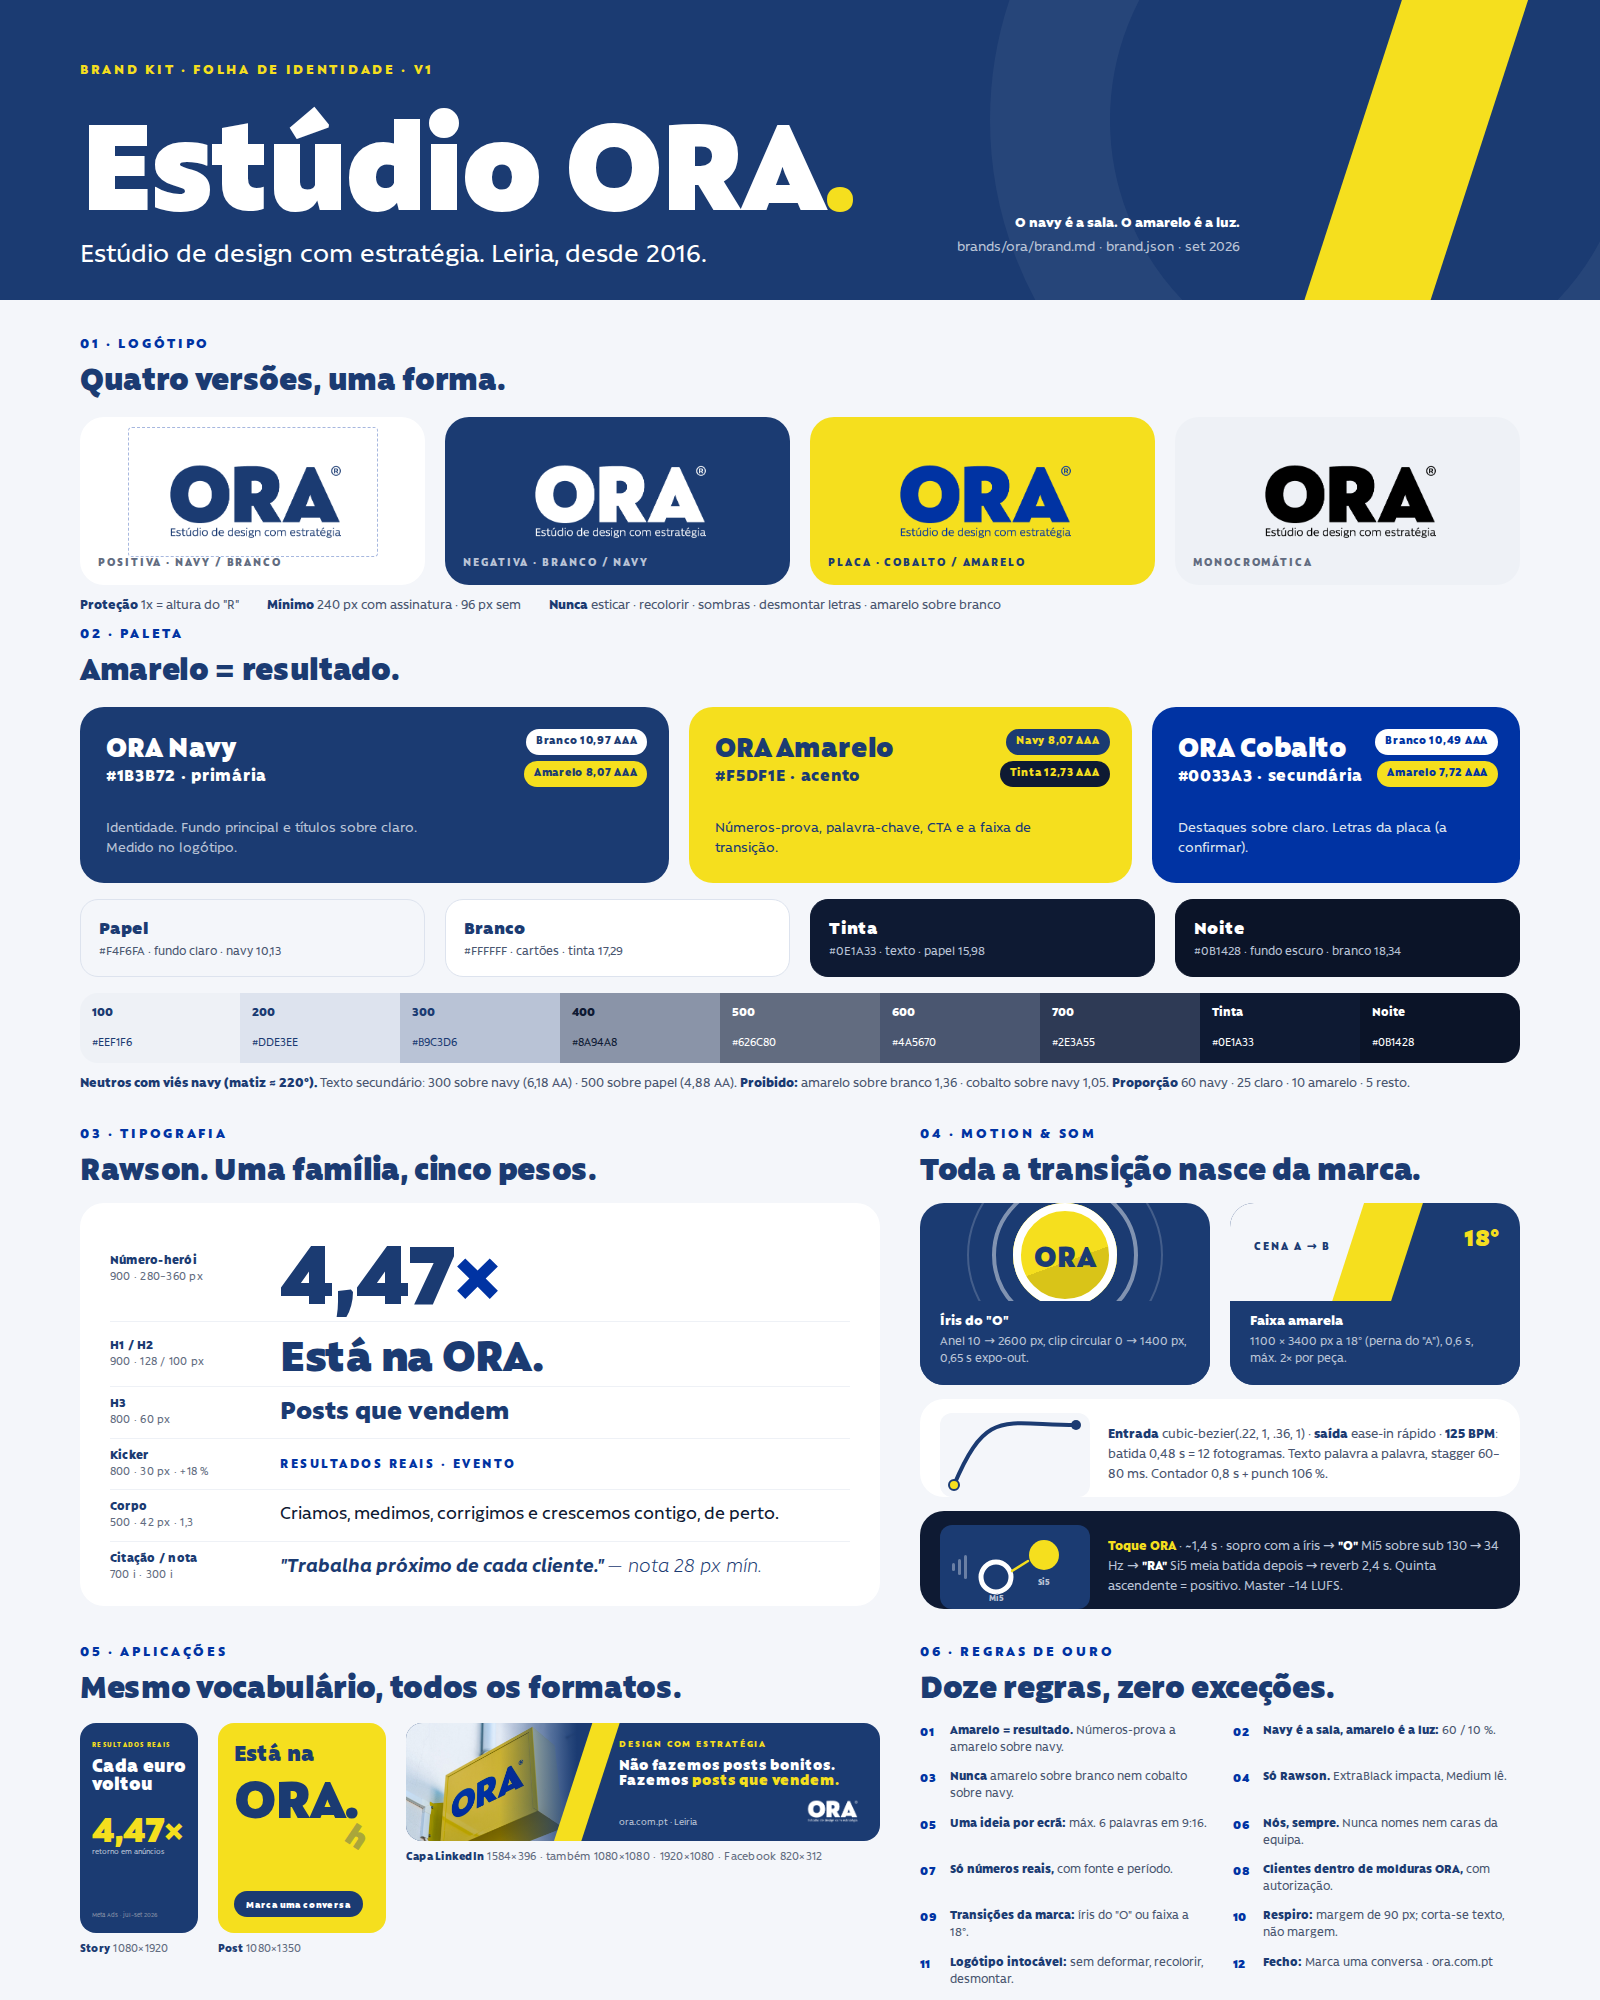
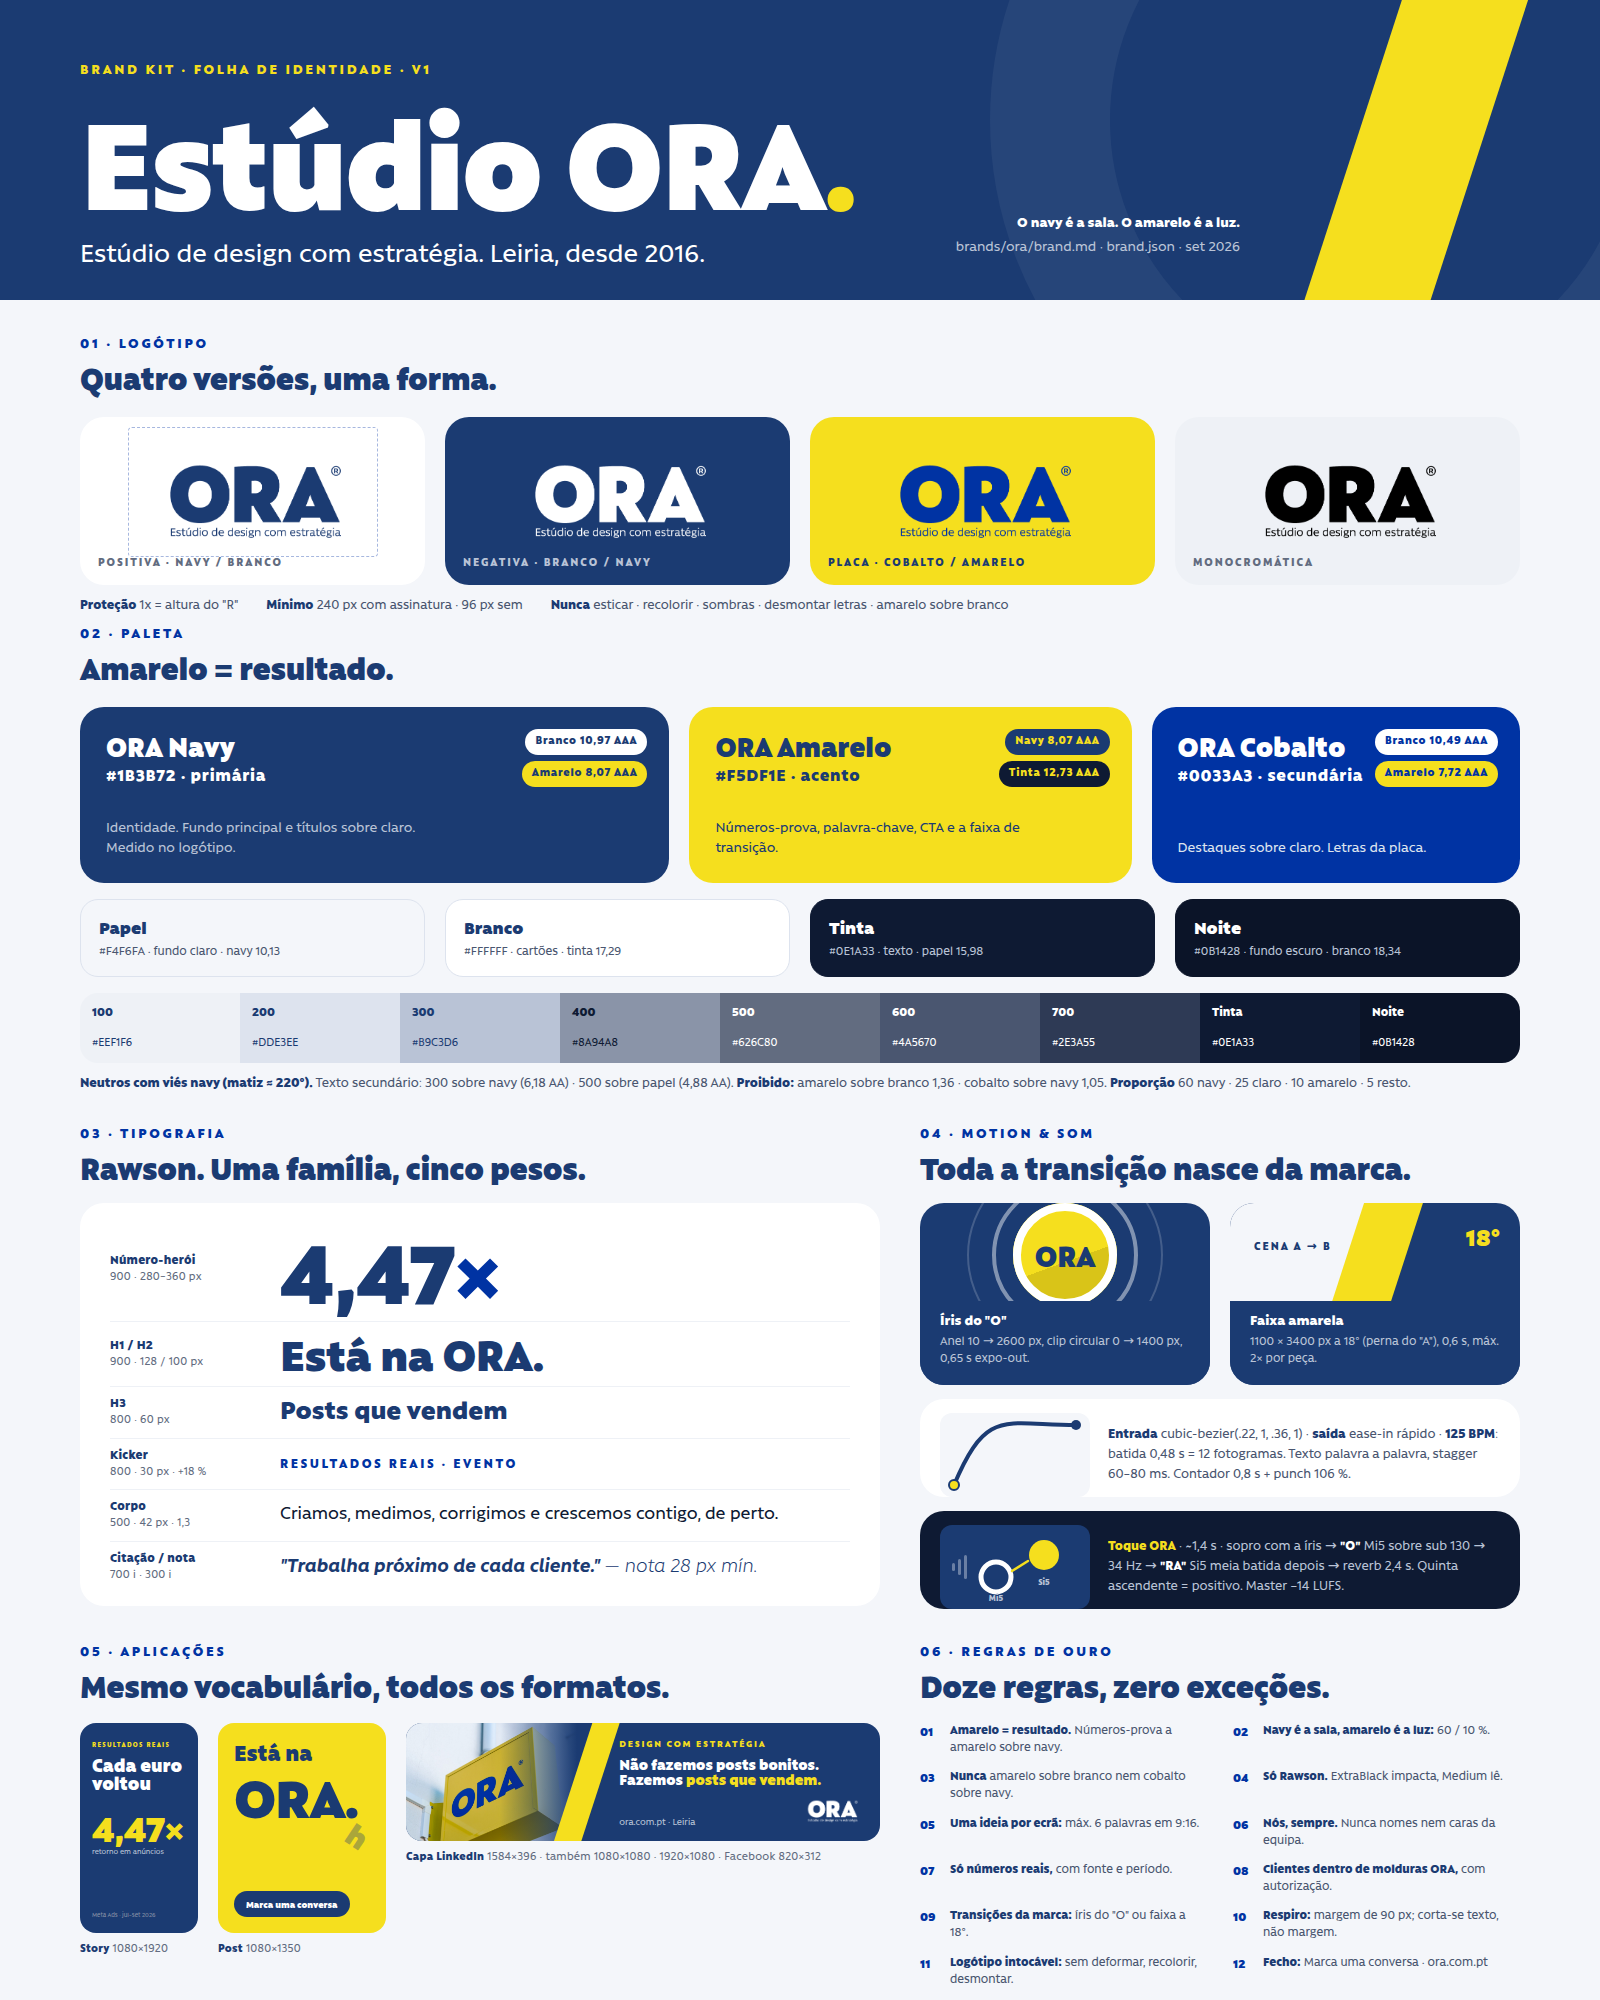
Brand kit ORA: regista aprovações do cliente (cobalto, logótipo, mínimos, Toque ORA)
Claude-Session: https://claude.ai/code/session_01KHn3Jy1H5yFDFE767gDCaD

diff --git a/brands/ora/folha-identidade.html b/brands/ora/folha-identidade.html
@@ -194,7 +194,7 @@ section{position:absolute;left:80px;right:80px}
     </div>
     <div class="sw" style="background:var(--cobalt);color:#fff">
       <div><div class="nm">ORA Cobalto</div><div class="hx">#0033A3 · secundária</div></div>
-      <div class="rl" style="color:var(--n200)">Destaques sobre claro. Letras da placa (a confirmar).</div>
+      <div class="rl" style="color:var(--n200)">Destaques sobre claro. Letras da placa.</div>
       <div class="cr"><span class="badge" style="background:#fff;color:var(--cobalt)">Branco 10,49 AAA</span><span class="badge" style="background:var(--yellow);color:var(--cobalt)">Amarelo 7,72 AAA</span></div>
     </div>
   </div>

diff --git a/brands/ora/brand.md b/brands/ora/brand.md
@@ -30,7 +30,7 @@
 |---|---|---|---|---|
 | `ora-navy` · **primária** | **#1B3B72** | 27 59 114 | Logótipo, medido em píxeis (exato) | Identidade. Fundo principal, títulos sobre claro |
 | `ora-amarelo` · **acento** | **#F5DF1E** | 245 223 30 | Aprovado pelo cliente | **Resultado**: números-prova, palavra-chave, CTA, faixa de transição |
-| `ora-cobalto` · secundária | **#0033A3** | 0 51 163 | Letras da placa (média medida #012F9E) · **a confirmar** | Kickers e destaques sobre claro, logótipo sobre amarelo, dados |
+| `ora-cobalto` · secundária | **#0033A3** | 0 51 163 | Letras da placa · **oficial (aprovado pelo cliente)** | Kickers e destaques sobre claro, logótipo sobre amarelo, dados |
 | `papel` · fundo claro | #F4F6FA | | Estúdio/site | Fundos claros, cartões, respiro |
 | `branco` | #FFFFFF | | | Texto sobre navy, cartões |
 | `tinta` · texto | #0E1A33 | | Derivada do navy | Texto corrido sobre claro e amarelo; caixas de legenda (86 %) |
@@ -122,7 +122,7 @@ Uma só família. O "ORA" do logótipo é Rawson ExtraBlack.
 | Monocromática | Preto 100 % ou branco 100 % (gravação, vinil, carimbo) |
 
 - **Área de proteção:** x = altura do "R". Espaço livre de 1x à volta, medido a partir do ® e da assinatura.
-- **Tamanho mínimo** (proposta, **a confirmar**): com assinatura, 240 px de largura (digital) ou 40 mm (impresso). Sem assinatura, 96 px ou 15 mm.
+- **Tamanho mínimo** (**aprovado pelo cliente**): com assinatura, 240 px de largura (digital) ou 40 mm (impresso). Sem assinatura, 96 px ou 15 mm.
 - **Proibido:** esticar, inclinar ou rodar · recriar com outra fonte · gradientes, sombras, contornos · amarelo sobre branco · navy sobre cobalto · pousar sobre fotos agitadas sem véu navy · remover o ® · desmontar as letras (a animação usa o "O" como íris, não parte o logótipo).
 
 ---
@@ -174,7 +174,7 @@ Uma barra #F5DF1E de 1100 × 3400 px, rodada **18°** (a inclinação da perna d
 **Música:** indie-electronic / funk moderno, otimista, a 125 BPM, com licença comercial (nunca faixas "trending" nos anúncios).
 **Voz:** PT-PT, calorosa e segura, em ritmo de conversa. Fala em nome do coletivo.
 
-**Toque ORA (sonic logo, ~1,4 s, proposta a validar):**
+**Toque ORA (sonic logo, ~1,4 s, aprovado pelo cliente):**
 1. Um sopro de ar ascendente (0,3 s) acompanha a abertura da íris.
 2. **"O":** Mi5 (659 Hz, seno com 10 % de triângulo) sobre um sub de 130 → 34 Hz.
 3. **"RA":** Si5 (988 Hz), meia batida depois (0,24 s).
@@ -221,8 +221,8 @@ A quinta ascendente soa a "positivo", limpa e curta, como pede o rigor premium, 
 
 ## 10. A confirmar com o cliente
 
-- [ ] HEX oficial do cobalto (a fotografia dá #012F9E; o valor de trabalho é #0033A3)
-- [ ] Logótipo vetorial e versão sem assinatura
-- [ ] Tamanhos mínimos e área de proteção, caso exista manual anterior
-- [ ] Toque ORA (sonic logo)
+- [x] Cobalto oficial: **#0033A3** (aprovado pelo cliente)
+- [x] Logótipo: não existe versão vetorial nem sem assinatura; usa-se o PNG atual (`assets/marca/logotipo-ora-azul.png`)
+- [x] Tamanhos mínimos aprovados: 240 px com assinatura, 96 px sem
+- [x] Toque ORA aprovado como som-assinatura
 - [ ] Papel da assinatura "Marketing para Negócios" face à oficial
